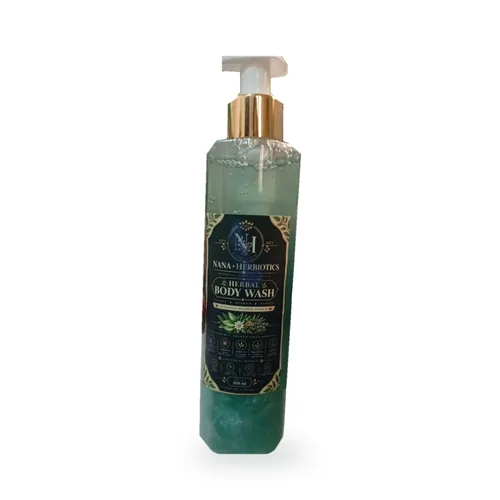
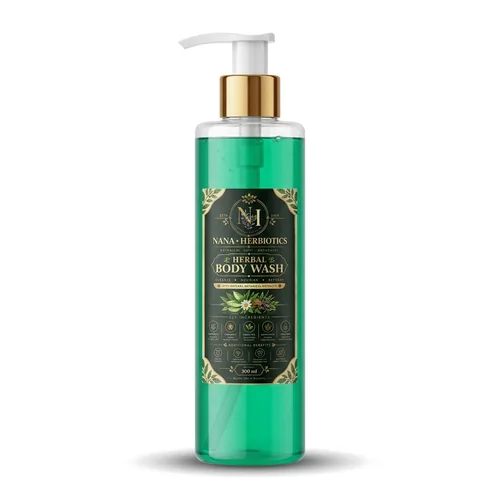
Use studio product photos and refine label-style design
New white-background photos for the shampoos, conditioner, face wash
and body wash. Cards get a gold-framed well with label corner sprigs,
ornamental section dividers, staggered reveals and an Add to cart
button that morphs to Added.

Changed region(s): [[0.3, 0.06, 0.72, 0.96]]

diff --git a/src/components/ProductCard.tsx b/src/components/ProductCard.tsx
@@ -1,9 +1,46 @@
-import { useState } from 'react'
+import { useEffect, useState } from 'react'
 import type { Product } from '../data/products'
 import { formatPKR } from '../lib/shop'
 import { useCart } from '../store/cart'
+import { Corners } from './Ornaments'
 import { ProductImage } from './ProductImage'
 import { QtyStepper } from './QtyStepper'
+
+/** Products shot in the studio have extra white margin, so they can fill the well more. */
+const STUDIO = new Set(['herbal-shampoo', 'hibiscus-shampoo', 'herbal-conditioner', 'herbal-body-wash', 'herbal-face-wash'])
+
+export function AddButton({ onAdd, label = 'Add to cart', className = '' }: { onAdd: () => void; label?: string; className?: string }) {
+  const [added, setAdded] = useState(false)
+  useEffect(() => {
+    if (!added) return
+    const t = setTimeout(() => setAdded(false), 1400)
+    return () => clearTimeout(t)
+  }, [added])
+  return (
+    <button
+      type="button"
+      onClick={() => {
+        onAdd()
+        setAdded(true)
+      }}
+      className={`press relative h-11 overflow-hidden rounded-full px-3 text-[15px] font-semibold transition-colors duration-200 ${added ? 'bg-gold text-forest-deep' : 'bg-forest text-ivory hover:bg-forest-deep'} ${className}`}
+    >
+      {/* Crossfade with a little blur so the label swap reads as one morph */}
+      <span className={`block transition-[opacity,filter,transform] duration-200 ease-[var(--ease-out)] ${added ? 'scale-95 opacity-0 blur-[3px]' : 'opacity-100'}`}>
+        {label}
+      </span>
+      <span
+        aria-hidden={!added}
+        className={`absolute inset-0 flex items-center justify-center gap-1.5 transition-[opacity,filter,transform] duration-200 ease-[var(--ease-out)] ${added ? 'opacity-100' : 'scale-95 opacity-0 blur-[3px]'}`}
+      >
+        <svg viewBox="0 0 24 24" width="18" height="18" fill="none" stroke="currentColor" strokeWidth="2.2" strokeLinecap="round" strokeLinejoin="round" aria-hidden>
+          <path d="m5 12.5 4.5 4.5L19 7.5" />
+        </svg>
+        Added
+      </span>
+    </button>
+  )
+}
 
 export function ProductCard({ product }: { product: Product }) {
   const [qty, setQty] = useState(1)
@@ -11,40 +48,38 @@ export function ProductCard({ product }: { product: Product }) {
   const setQuickView = useCart((s) => s.setQuickView)
 
   return (
-    <article className="group flex flex-col overflow-hidden rounded-2xl bg-white shadow-[0_1px_2px_rgba(14,32,24,0.06),0_8px_24px_-12px_rgba(14,32,24,0.18)]">
+    <article className="group flex w-full flex-col rounded-[20px] bg-white p-1.5 shadow-[0_1px_2px_rgba(14,32,24,0.06),0_12px_32px_-16px_rgba(14,32,24,0.22)] sm:p-2">
       <button
         type="button"
         onClick={() => setQuickView(product.id)}
-        className="relative block aspect-square overflow-hidden bg-white"
+        className="relative block aspect-[4/5] overflow-hidden rounded-[14px] bg-white ring-1 ring-gold/35 ring-inset"
         aria-label={`Quick view: ${product.name}`}
       >
-        <ProductImage product={product} className="zoom-img h-full w-full object-contain" />
-        <span className="absolute left-2 top-2 rounded-full bg-forest/90 px-2 py-0.5 text-[11px] font-medium text-gold-light sm:left-3 sm:top-3 sm:px-2.5 sm:py-1 sm:text-xs">
+        <ProductImage product={product} className={`zoom-img h-full w-full object-cover ${STUDIO.has(product.id) ? 'scale-[1.18]' : ''}`} />
+        <Corners />
+        <span className="absolute bottom-2 left-1/2 -translate-x-1/2 rounded-full bg-forest px-2.5 py-0.5 text-[11px] font-medium tracking-wide text-gold-light sm:bottom-3 sm:text-xs">
           {product.size}
         </span>
       </button>
-      <div className="flex flex-1 flex-col gap-1.5 border-t border-forest/10 p-3 sm:gap-2 sm:p-5">
-        <h3 className="font-display text-[15px] font-semibold leading-tight sm:text-lg text-forest">
-          <button type="button" onClick={() => setQuickView(product.id)} className="text-left hover:underline hover:underline-offset-4 hover:decoration-gold">
+      <div className="flex flex-1 flex-col gap-1.5 px-2 pb-2 pt-3 text-center sm:gap-2 sm:px-3 sm:pb-3 sm:pt-4">
+        <h3 className="font-display text-[15px] font-semibold leading-tight text-forest text-balance sm:text-lg">
+          <button type="button" onClick={() => setQuickView(product.id)} className="hover:underline hover:decoration-gold hover:underline-offset-4">
             {product.name}
           </button>
         </h3>
-        <p className="line-clamp-2 text-[13px] leading-snug text-ink/70 sm:line-clamp-none sm:text-[15px] sm:leading-relaxed">{product.short}</p>
-        <p className="mt-auto pt-1 text-lg font-semibold sm:text-xl text-forest tabular-nums">{formatPKR(product.price)}</p>
-        <div className="flex items-center gap-2">
+        <p className="line-clamp-2 text-[13px] leading-snug text-ink/65 sm:text-[15px] sm:leading-relaxed">{product.short}</p>
+        <p className="mt-auto pt-1 text-lg font-semibold text-forest tabular-nums sm:text-xl">{formatPKR(product.price)}</p>
+        <div className="flex items-center gap-2 pt-1">
           <div className="hidden sm:block">
             <QtyStepper value={qty} onChange={setQty} label={product.name} />
           </div>
-          <button
-            type="button"
-            onClick={() => {
+          <AddButton
+            className="flex-1"
+            onAdd={() => {
               add(product.id, qty)
               setQty(1)
             }}
-            className="press h-11 flex-1 rounded-full bg-forest px-3 text-[15px] font-semibold text-ivory hover:bg-forest-deep"
-          >
-            Add to cart
-          </button>
+          />
         </div>
       </div>
     </article>

diff --git a/src/components/Sections.tsx b/src/components/Sections.tsx
@@ -3,6 +3,7 @@ import { inCategory, type Category } from '../data/products'
 import { EMAIL, FACEBOOK_URL, INSTAGRAM_URL, PHONE_DISPLAY, PHONE_TEL, waLink } from '../lib/shop'
 import { ProductCard } from './ProductCard'
 import { Monogram } from './Header'
+import { Corners, Divider } from './Ornaments'
 import {
   DropIcon, FacebookIcon, FlaskIcon, HeartIcon, InstagramIcon, MailIcon, PhoneIcon, SproutIcon, TruckIcon, WhatsAppIcon,
 } from './Icons'
@@ -29,10 +30,10 @@ function useReveal<T extends HTMLElement>() {
 
 function SectionHead({ title, intro }: { title: string; intro: string }) {
   return (
-    <div className="mb-8 max-w-2xl">
+    <div className="mx-auto mb-10 max-w-xl text-center">
       <h2 className="font-display text-[clamp(1.75rem,4.5vw,2.5rem)] font-bold leading-tight text-forest">{title}</h2>
-      <div className="mt-3 h-px w-16 bg-gold" />
-      <p className="mt-4 text-[17px] leading-relaxed text-ink/75">{intro}</p>
+      <Divider className="mt-3 justify-center" />
+      <p className="mt-4 text-[17px] leading-relaxed text-pretty text-ink/75">{intro}</p>
     </div>
   )
 }
@@ -42,14 +43,16 @@ export function ProductSection({ id, category, title, intro, tone = 'ivory' }: {
 }) {
   const ref = useReveal<HTMLDivElement>()
   const items = inCategory(category)
-  const cols = items.length === 2 ? 'grid-cols-2 lg:max-w-4xl' : 'grid-cols-2 lg:grid-cols-3'
+  const cols = items.length === 2 ? 'grid-cols-2 mx-auto max-w-4xl' : 'grid-cols-2 lg:grid-cols-3'
   return (
     <section id={id} className={tone === 'white' ? 'bg-white/60' : ''}>
       <div ref={ref} className="reveal mx-auto max-w-6xl px-4 py-14 md:py-20">
         <SectionHead title={title} intro={intro} />
-        <div className={`grid gap-3 sm:gap-5 ${cols}`}>
-          {items.map((p) => (
-            <ProductCard key={p.id} product={p} />
+        <div className={`stagger grid gap-3 sm:gap-6 ${cols}`}>
+          {items.map((p, i) => (
+            <div key={p.id} style={{ '--i': i } as React.CSSProperties} className="flex">
+              <ProductCard product={p} />
+            </div>
           ))}
         </div>
       </div>
@@ -93,7 +96,8 @@ export function About() {
   return (
     <section id="about" className="bg-white/60">
       <div ref={ref} className="reveal mx-auto grid max-w-6xl items-center gap-10 px-4 py-14 md:grid-cols-[auto_1fr] md:gap-16 md:py-20">
-        <div className="label-frame mx-auto grid h-44 w-44 place-items-center rounded-full bg-forest text-gold-light md:h-56 md:w-56">
+        <div className="relative mx-auto grid h-52 w-44 place-items-center rounded-2xl bg-forest text-gold-light label-frame md:h-64 md:w-56">
+          <Corners className="text-gold/60" size="h-6 w-6" inset="m-2" />
           <div className="text-center">
             <Monogram className="mx-auto h-20 w-20 md:h-24 md:w-24" />
             <p className="mt-2 font-display text-xs tracking-[0.2em]">ESTD · 2024</p>
@@ -101,7 +105,7 @@ export function About() {
         </div>
         <div className="max-w-2xl">
           <h2 className="font-display text-[clamp(1.75rem,4.5vw,2.5rem)] font-bold leading-tight text-forest">Rooted in nature</h2>
-          <div className="mt-3 h-px w-16 bg-gold" />
+          <Divider className="mt-3" />
           <div className="mt-5 space-y-4 text-[17px] leading-relaxed text-ink/80">
             <p>
               Nana Herbiotics started in 2024 with a simple idea: care for your hair and skin the way our grandmothers did,
@@ -125,7 +129,9 @@ export function Contact() {
     <section id="contact">
       <div ref={ref} className="reveal mx-auto grid max-w-6xl gap-10 px-4 py-14 md:grid-cols-2 md:py-20">
         <div>
-          <SectionHead title="Get in touch" intro="Questions about a product, or want to order by message? We usually reply the same day." />
+          <h2 className="font-display text-[clamp(1.75rem,4.5vw,2.5rem)] font-bold leading-tight text-forest">Get in touch</h2>
+          <Divider className="mt-3" />
+          <p className="mt-4 mb-8 max-w-md text-[17px] leading-relaxed text-ink/75">Questions about a product, or want to order by message? We usually reply the same day.</p>
           <div className="flex flex-col gap-3">
             <a
               href={waLink('Assalam-o-Alaikum! I have a question about Nana Herbiotics products.')}

diff --git a/src/components/Ornaments.tsx b/src/components/Ornaments.tsx
@@ -1,0 +1,41 @@
+/** Line-art ornaments taken from the label: corner sprigs and a leaf divider. */
+
+export function Sprig({ className = '' }: { className?: string }) {
+  return (
+    <svg viewBox="0 0 48 48" className={className} fill="none" stroke="currentColor" strokeWidth="1.1" strokeLinecap="round" aria-hidden>
+      <path d="M3 3h20M3 3v20" />
+      <path d="M7 7h9M7 7v9" opacity=".6" />
+      <path d="M8 8c8 2 15 7 20 16" />
+      <path d="M14 11c1-4 4-6 8-6-1 4-4 6-8 6Z" />
+      <path d="M11 14c-4 1-6 4-6 8 4-1 6-4 6-8Z" />
+      <path d="M20 16c2-3 5-4 8-3-2 3-5 4-8 3Z" />
+      <path d="M17 20c-3 2-4 5-3 8 3-2 4-5 3-8Z" />
+    </svg>
+  )
+}
+
+/** Four sprigs pinned into the corners of a relative parent. */
+export function Corners({ className = 'text-gold/70', size = 'h-7 w-7 sm:h-9 sm:w-9', inset = 'm-1.5 sm:m-2' }: { className?: string; size?: string; inset?: string }) {
+  const base = `pointer-events-none absolute ${size} ${inset} ${className}`
+  return (
+    <>
+      <Sprig className={`${base} left-0 top-0`} />
+      <Sprig className={`${base} right-0 top-0 -scale-x-100`} />
+      <Sprig className={`${base} bottom-0 left-0 -scale-y-100`} />
+      <Sprig className={`${base} bottom-0 right-0 -scale-100`} />
+    </>
+  )
+}
+
+export function Divider({ className = '' }: { className?: string }) {
+  return (
+    <div className={`flex items-center gap-3 text-gold ${className}`} aria-hidden>
+      <span className="h-px w-10 bg-current opacity-70" />
+      <svg viewBox="0 0 24 12" className="h-3 w-6" fill="none" stroke="currentColor" strokeWidth="1.2" strokeLinecap="round">
+        <path d="M12 11V3" />
+        <path d="M12 6c-2-3-5-4-8-3 2 3 5 4 8 3ZM12 6c2-3 5-4 8-3-2 3-5 4-8 3Z" />
+      </svg>
+      <span className="h-px w-10 bg-current opacity-70" />
+    </div>
+  )
+}

diff --git a/src/components/Hero.tsx b/src/components/Hero.tsx
@@ -1,6 +1,7 @@
 import { byId } from '../data/products'
 import { ProductImage } from './ProductImage'
 import { LeafIcon, TruckIcon } from './Icons'
+import { Corners } from './Ornaments'
 
 const trio = ['herbal-shampoo', 'hibiscus-shampoo', 'herbal-conditioner'].map((id) => byId(id)!)
 
@@ -36,18 +37,19 @@ export function Hero() {
         </div>
 
         <div className="label-frame relative mx-auto w-full max-w-[22rem] overflow-hidden rounded-t-[999px] rounded-b-3xl bg-white px-3 pt-10 md:max-w-md">
-          <div className="grid grid-cols-3 items-end gap-1">
+          <Corners className="text-gold/70" />
+          <div className="grid grid-cols-3 items-end">
             {trio.map((p, i) => (
               <ProductImage
                 key={p.id}
                 product={p}
                 eager
                 sizes="(min-width: 768px) 160px, 30vw"
-                className={`aspect-[2/5] w-full object-cover ${i === 1 ? '' : 'origin-bottom scale-90'}`}
+                className={`aspect-[1/2] w-full object-cover ${i === 1 ? '' : 'origin-bottom scale-90'}`}
               />
             ))}
           </div>
-          <p className="flex items-center justify-center gap-2 py-3 text-center font-display text-sm font-semibold tracking-wider text-forest">
+          <p className="relative flex items-center justify-center gap-2 py-3 text-center font-display text-sm font-semibold tracking-wider text-forest">
             <LeafIcon width={16} height={16} className="text-gold" /> Rooted in Nature · Est. 2024
           </p>
         </div>

diff --git a/src/data/products.ts b/src/data/products.ts
@@ -69,7 +69,7 @@ export const products: Product[] = [
     ingredients: ['Botanical extracts'],
     badges: ['Paraben free', 'Gentle daily use'],
     image: img('herbal-face-wash'),
-    alt: 'Nana Herbiotics Herbal Face Wash, 150 ml clear pump bottle with a green and gold label',
+    alt: 'Nana Herbiotics Herbal Face Wash, 150 ml blue-tinted pump bottle with a green and gold label',
   },
   {
     id: 'herbal-body-wash',
@@ -82,7 +82,7 @@ export const products: Product[] = [
     ingredients: ['Chamomile', 'Green tea', 'Neem'],
     badges: ['Paraben free', 'All skin types'],
     image: img('herbal-body-wash'),
-    alt: 'Nana Herbiotics Herbal Body Wash, 300 ml clear bottle of green gel with a dark label',
+    alt: 'Nana Herbiotics Herbal Body Wash, 300 ml clear bottle of green gel with a green and gold label',
   },
   {
     id: 'brightening-serum',

diff --git a/src/index.css b/src/index.css
@@ -86,6 +86,14 @@ textarea {
 .reveal.in {
   transform: none;
 }
+.reveal .stagger > * {
+  transform: translateY(18px);
+  transition: transform 550ms var(--ease-out);
+  transition-delay: calc(var(--i, 0) * 60ms);
+}
+.reveal.in .stagger > * {
+  transform: none;
+}
 
 @media (hover: hover) and (pointer: fine) {
   .zoom-img {
